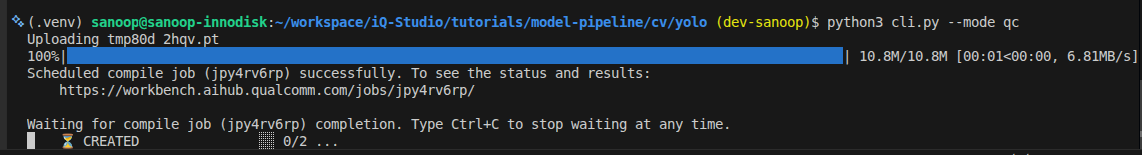
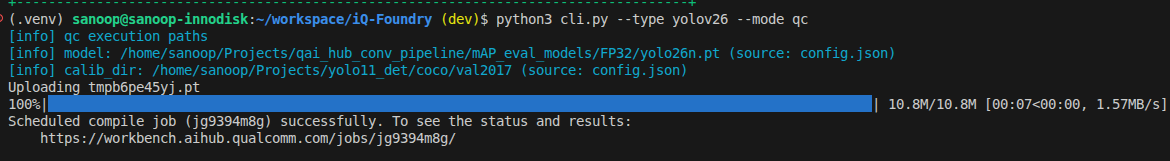
docs: update the flow to use iQ-Foundry sources, update commands and instructions accordingly

diff --git a/tutorials/model-deploy/cv/yolo26/README.md b/tutorials/model-deploy/cv/yolo26/README.md
@@ -1,6 +1,6 @@
 # Model Deploy: How to Convert, Optimize, and Perform Inference with YOLO26 Models ?
 
-This iQ-Studio tutorial shows a simple YOLO26 workflow for Qualcomm Dragonwing IQ9. It covers the default flow for INT8 quantization, conversion, quality assurance, and ADB-based inference.
+This iQ-Studio tutorial follows the [iQ-Foundry](https://github.com/InnoIPA/iQ-Foundry) YOLO26 workflow for EXMP-Q911 (Qualcomm QCS9075). It covers the default flow for INT8 quantization, conversion, quality assurance, and ADB-based inference.
 
 ![YOLO model deploy overview](./fig/yolo-model-deploy-overview.png)
 
@@ -11,6 +11,8 @@ This guide follows a straightforward end-to-end flow:
 1. Quantize and convert the FP32 YOLO model to INT8 `.tflite` model with Qualcomm AI Hub.
 2. Compare FP and INT8 model quality with mAP.
 3. Run inference on Qualcomm Dragonwing IQ9 through ADB.
+
+If you need pretrained YOLO weights (.pt), download the official models from [Ultralytics](https://docs.ultralytics.com/).
 
 ## Requirements
 
@@ -32,11 +34,11 @@ For more about ADB interaction, see [Interact with the system using adb](../../.
 
 ## Step 2. Clone the Repository and Set Up the Environment
 
-Clone the iQ-Studio repository, go to the YOLO26 tutorial directory, and source the setup script:
+Clone the iQ-Foundry repository, go to the repository directory, and source the setup script:
 
 ```bash
-git clone https://github.com/InnoIPA/iQ-Studio.git
-cd iQ-Studio/tutorials/model-deploy/cv/yolo26
+git clone https://github.com/InnoIPA/iQ-Foundry.git
+cd iQ-Foundry
 source setup.sh
 ```
 
@@ -58,6 +60,8 @@ qai-hub configure --api_token YOUR_API_TOKEN
 
 ## Step 4. Run the Modes
 
+> Note: The `--type` option supports `yolov10`, `yolov11`, and `yolov26`.
+
 Follow the steps for each mode below to convert the model (qc), evaluate its quality (mAP), and deploy YOLO inference (test).
 
 ### 1. QC
@@ -67,7 +71,7 @@ Follow the steps for each mode below to convert the model (qc), evaluate its qua
 Configure the required paths:
 
 ```bash
-python3 cli.py --configure qc
+python3 cli.py --type yolov26 --configure qc
 ```
 
 When prompted, enter the requested model and calibration paths.
@@ -77,7 +81,7 @@ When prompted, enter the requested model and calibration paths.
 Run the mode:
 
 ```bash
-python3 cli.py --mode qc
+python3 cli.py --type yolov26 --mode qc
 ```
 
 This generates the converted YOLO `.tflite` model in the output directory.
@@ -93,7 +97,7 @@ Output location: `out/model/yolov26/`
 Configure the required paths:
 
 ```bash
-python3 cli.py --configure mAP
+python3 cli.py --type yolov26 --configure mAP
 ```
 
 When prompted, enter the requested annotation, image, FP model, and INT8 model paths.
@@ -101,13 +105,13 @@ When prompted, enter the requested annotation, image, FP model, and INT8 model p
 Run the mode:
 
 ```bash
-python3 cli.py --mode mAP
+python3 cli.py --type yolov26 --mode mAP
 ```
 
 For a smaller validation run, you can limit the number of images:
 
 ```bash
-python3 cli.py --mode mAP --max-images 5
+python3 cli.py --type yolov26 --mode mAP --max-images 5
 ```
 
 This produces the FP versus INT8 quality comparison report.
@@ -123,7 +127,7 @@ Output location: `out/mAP_results/yolov26/`
 Configure the required paths:
 
 ```bash
-python3 cli.py --configure test
+python3 cli.py --type yolov26 --configure test
 ```
 
 When prompted, enter the requested model, YAML, and test image paths.
@@ -131,7 +135,7 @@ When prompted, enter the requested model, YAML, and test image paths.
 Run the mode:
 
 ```bash
-python3 cli.py --mode test
+python3 cli.py --type yolov26 --mode test
 ```
 
 This runs inference on the target and saves the generated result artifacts.
@@ -141,9 +145,11 @@ This runs inference on the target and saves the generated result artifacts.
   <img src="./fig/inference-output.png" alt="Inference output" width="640" />
 </p>
 
+This inference example was generated using a pretrained [Ultralytics YOLO26 model](https://docs.ultralytics.com/models/yolo26/).
+
 Output location: `out/test/yolov26/`
 
-> 💡 Tip: To review the currently saved mode paths, run `python3 cli.py --configure current`.
+> 💡 Tip: To review the currently saved mode paths, run `python3 cli.py --configure`.
 
 ## Additional Options
 

diff --git a/tutorials/model-deploy/README.md b/tutorials/model-deploy/README.md
@@ -1,12 +1,14 @@
 # Model Deploy: End-to-End Guides for Converting, Optimizing, and Running AI Models on the Target Platform
 
-The iQ-Studio Model Deploy feature provides an end-to-end workflow for preparing AI models for deployment on the target platform. The flow covers model quantization, model conversion, quality assurance, and target inference so users can move from a training artifact to deployable outputs with a guided process.
+The iQ-Studio Model Deploy feature, provided by [iQ-Foundry](https://github.com/InnoIPA/iQ-Foundry), offers an end-to-end workflow for preparing AI models for deployment on the target platform. The flow covers model quantization, model conversion, quality assurance, and target inference so users can move from a training artifact to deployable outputs with a guided process.
 
 ![Model Deploy flow](./cv/yolo26/fig/model-deploy-flow.gif)
 
 ## Overview
 
-The Model Deploy flow is organized around four stages:
+Model Deploy is a bring-your-own-model workflow. You start with your own custom trained model or pre-trained model artifact and use the iQ-Foundry flow to prepare it for deployment on the target platform.
+
+The flow is organized around four stages:
 
 1. Quantize the source model.
 2. Convert the model to a deployable format.
@@ -20,6 +22,7 @@ The workflow supports model optimization and quantization paths, including INT8 
 | <img src="./cv/yolo26/fig/yolo26-fp32.png" alt="YOLO26 FP32 output" width="420" /> | <img src="./cv/yolo26/fig/yolo26-int8.png" alt="YOLO26 INT8 output" width="420" /> |
 
 🔴 Prediction, 🟢 Ground truth
+
 
 ## Get Started
 
